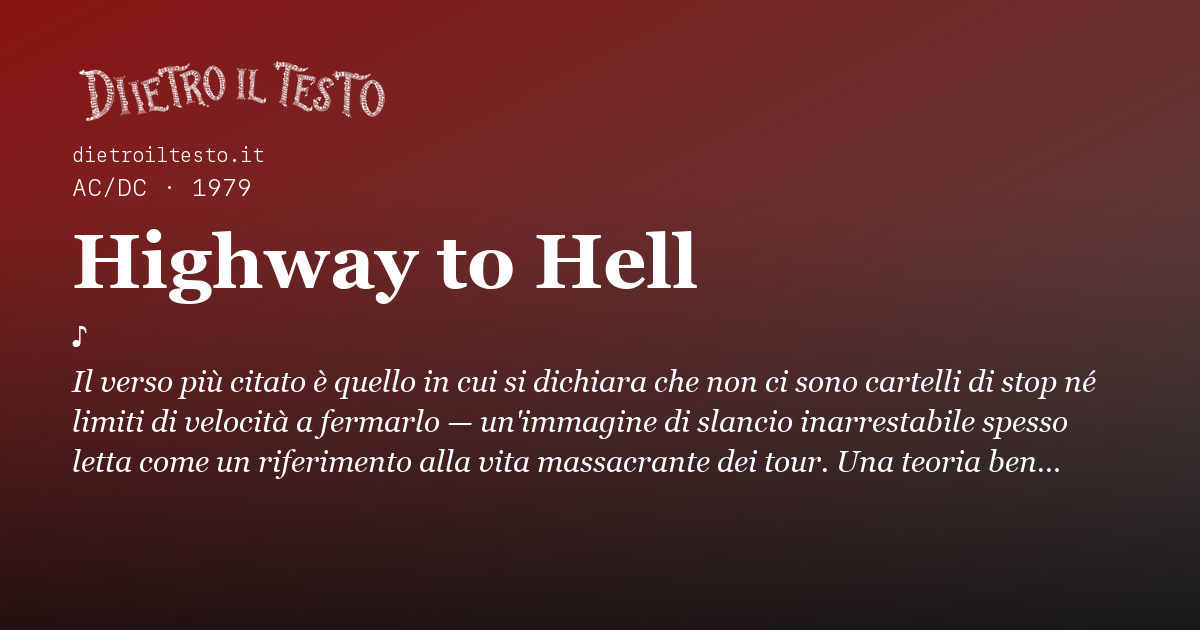
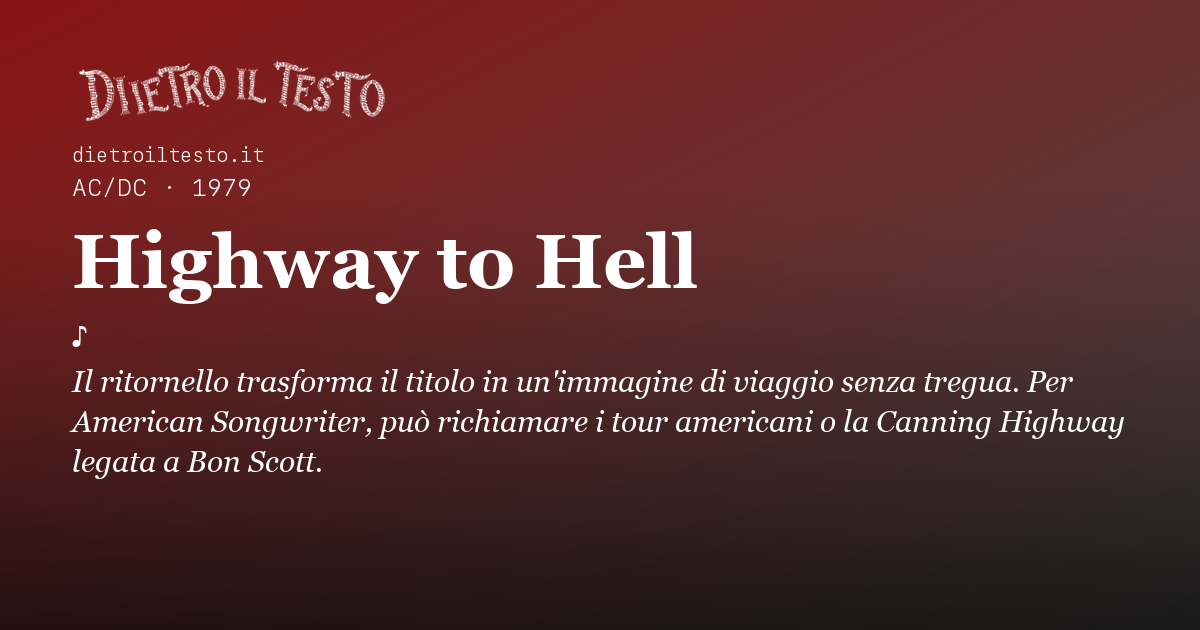
Correggi scheda Highway to Hell e frase iconica P3

Changed region(s): [[0.0617, 0.573, 0.9558, 0.754]]

diff --git a/ROADMAP.md b/ROADMAP.md
@@ -4149,3 +4149,13 @@ Il proprietario ha scritto «Confermo la pubblicazione». Inviato al ramo `main`
 **Limiti conservati.** Il browser interno verifica la creazione dell'iframe Spotify pubblico ma ne mostra il contenuto vuoto; la prova Chrome della stessa versione prima della pubblicazione resta al §28. Nessuna verifica della riproduzione integrale o dell'uscita acustica. Non sono stati controllati in rete tutti i link esterni. Un controllo aggiuntivo su `/ricerca.json` ha restituito il 404 atteso per un file inesistente e non utilizzato; l'indice effettivo è in `ricerca.js`.
 
 **Stato: lotto approvato pubblicato e controllato.** Catalogo e verifica editoriale invariati; il file non tracciato SEO-LASTMOD è preservato. Le altre proposte fotografiche, le nuove schede e il lavoro editoriale dell'altra AI restano separati. Nessun uso di GSC. Il rapporto e questo aggiornamento sono conservati in un commit locale successivo, senza un secondo invio alla produzione.
+
+## 30. Proposta separata: correzione di Highway to Hell, 1 ottobre 2026
+
+Il rapporto indipendente `rapporti/orario/05-highway-to-hell.md` segnala nella frase iconica una traduzione parziale di un verso (P3), oltre ad affermazioni non sostenute e a due spiegazioni del titolo presentate in modo contraddittorio. La scheda pubblicata definisce inoltre «di gran lunga» primo un brano che, nella [tabella Kworb degli AC/DC](https://kworb.net/spotify/artist/711MCceyCBcFnzjGY4Q7Un_songs.html) riaperta il 1 ottobre, precede *Thunderstruck* solo di circa 52 milioni su oltre 2,4 miliardi di ascolti. La stessa scheda collega i conteggi alla pagina generale di Kworb, che non mostra il dato della canzone.
+
+Nella copia separata è stata riscritta la frase iconica a livello di funzione del ritornello, senza versi né traduzioni. Il corpo distingue due possibili origini del titolo, attribuite ad [American Songwriter](https://americansongwriter.com/behind-the-meaning-of-highway-to-hell-by-ac-dc/), e chiarisce che il racconto di Brian Johnson è riportato dalla testata a partire da un'intervista a *The Metro*. Sono stati eliminati il presunto scherzo, l'anno non documentato del tour, l'ordinale controverso dell'album, il primato gonfiato e il conteggio Spotify non mostrato sul sito. L'[archivio ufficiale AC/DC](https://www.acdc.com/music/highway-to-hell/) documenta l'album del 1979, il brano d'apertura e il produttore Robert «Mutt» Lange. La data dell'ultima verifica della scheda non viene aggiornata, perché non si tratta di una revisione completa.
+
+**Verifica.** Rigenerate la pagina e la sola immagine condivisibile `og/highway-to-hell.png`, ispezionata per intero senza troncamenti. Su desktop (1280 px) e mobile (390 px) la frase nuova è leggibile; sul mobile non c'è scorrimento orizzontale e il browser non registra errori di console. L'anteprima non contiene più la traduzione segnalata. `check-coerenza`, `check-seo`, `check-link`, `check-attribuzioni --tutte` e `git diff --check` passano; il controllo delle attribuzioni lascia 30 avvisi informativi preesistenti su altre schede. Il catalogo resta di 317 canzoni, 104 artisti e 251 album.
+
+**Stato:** proposta locale isolata, pronta per la revisione del proprietario; nessun trasferimento, push o pubblicazione. Le altre schede in revisione restano nelle rispettive copie. Non è stata eseguita una verifica editoriale completa della scheda né di tutto l'archivio.
